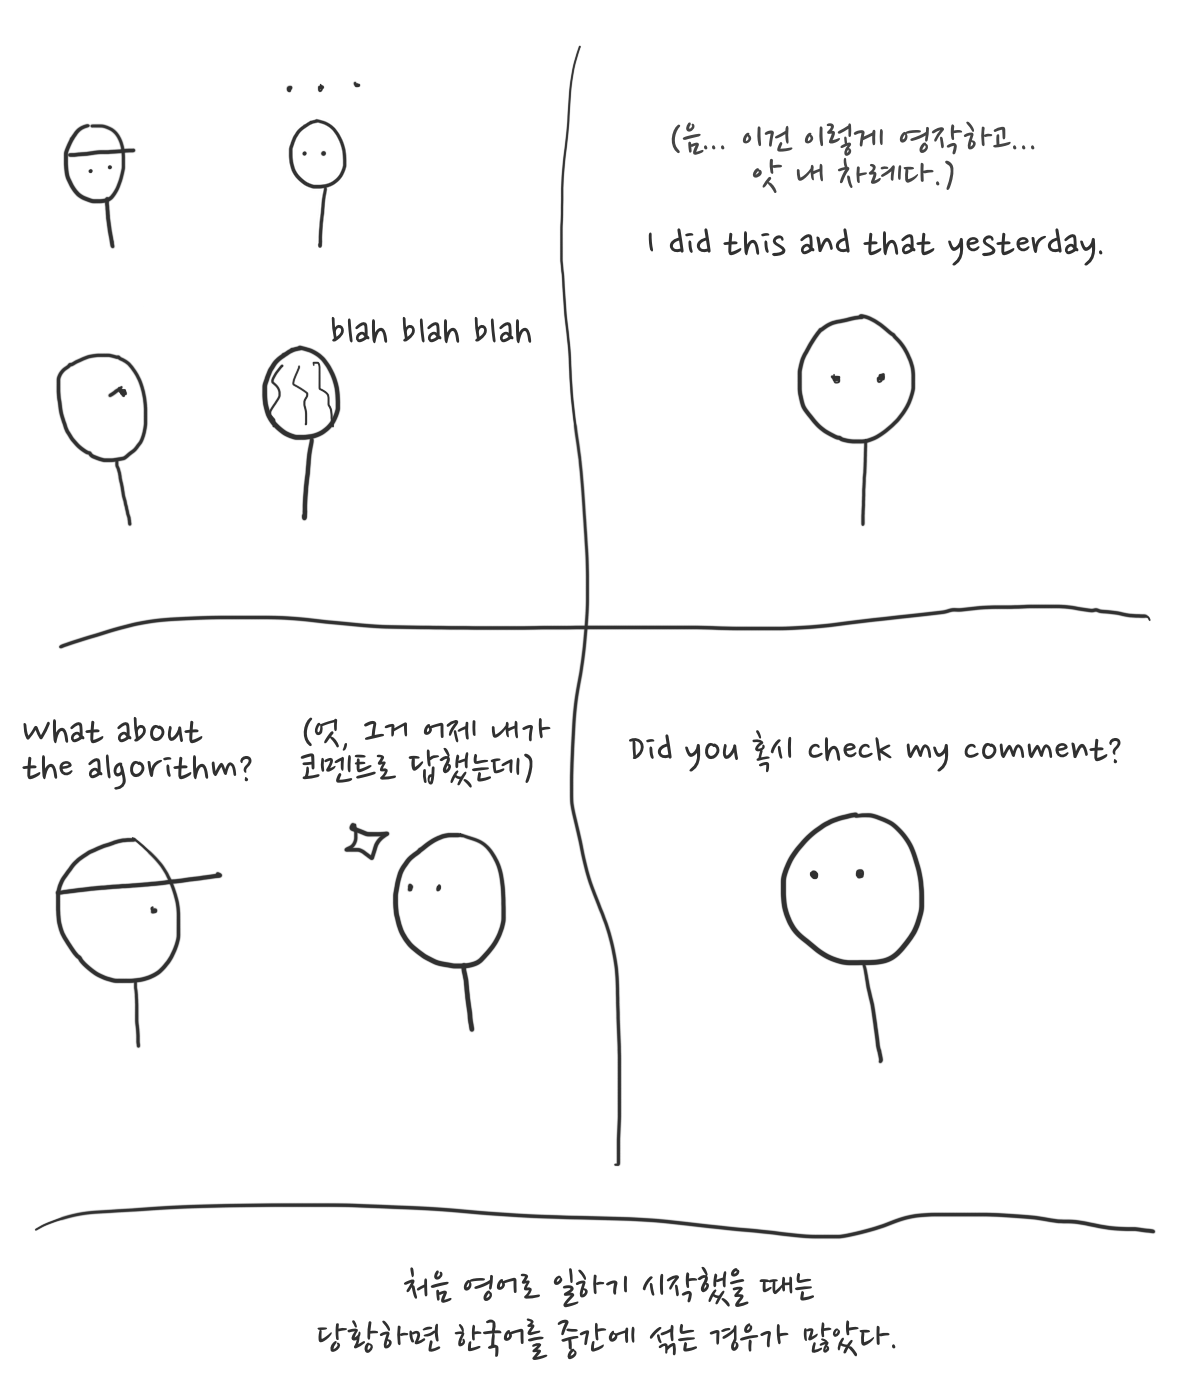
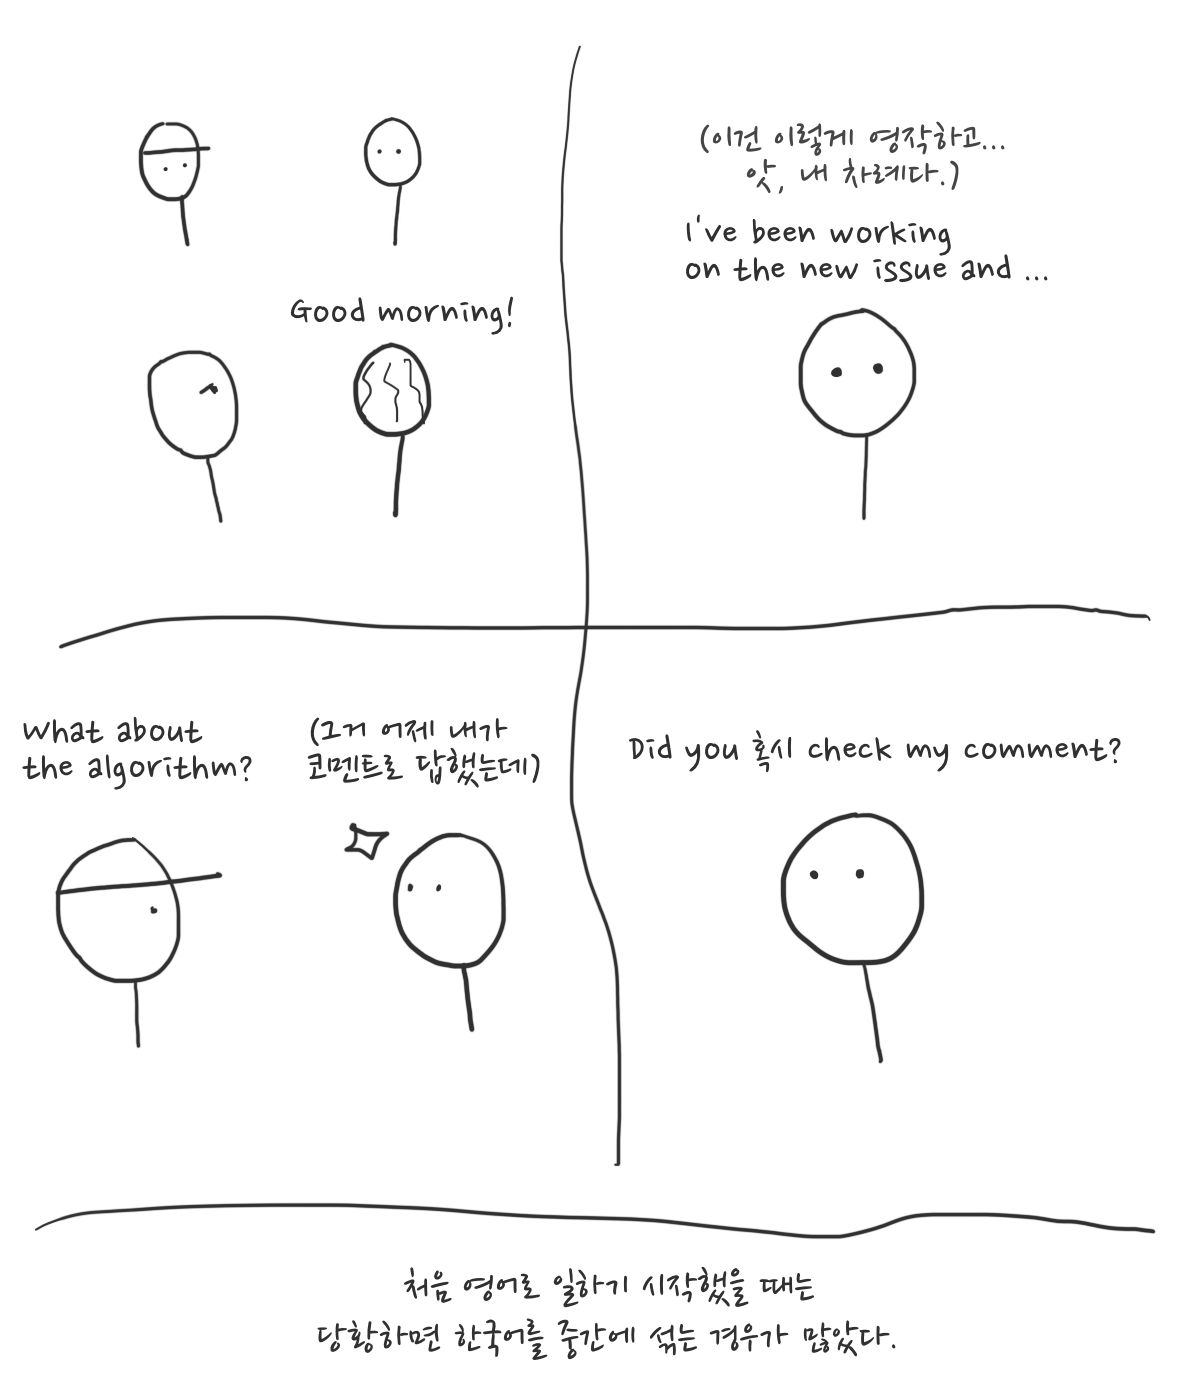
Update 'standup' article

diff --git a/resources/md/kr/blog/standup.md b/resources/md/kr/blog/standup.md
@@ -2,12 +2,12 @@
 draft = false
 slug = "standup"
 date = "2021-09-06T22:23:00+02:00"
-title = "(웹툰) 영어 스탠드업 미팅"
+title = "(웹툰) 영어 스탠드업"
 images = ["img/standup.png"]
 
 +++
 
-<img src="/img/standup.png" alt="영어 스탠드업 미팅 웹툰" />
+<img src="/img/standup.png" alt="영어 스탠드업 웹툰" />
 
 이전 글 [해외취업과 영어의 어려움](https://iamsang.com/blog/2020/12/20/difficult-english/)에서 이야기하였던 에피소드이다.
 
